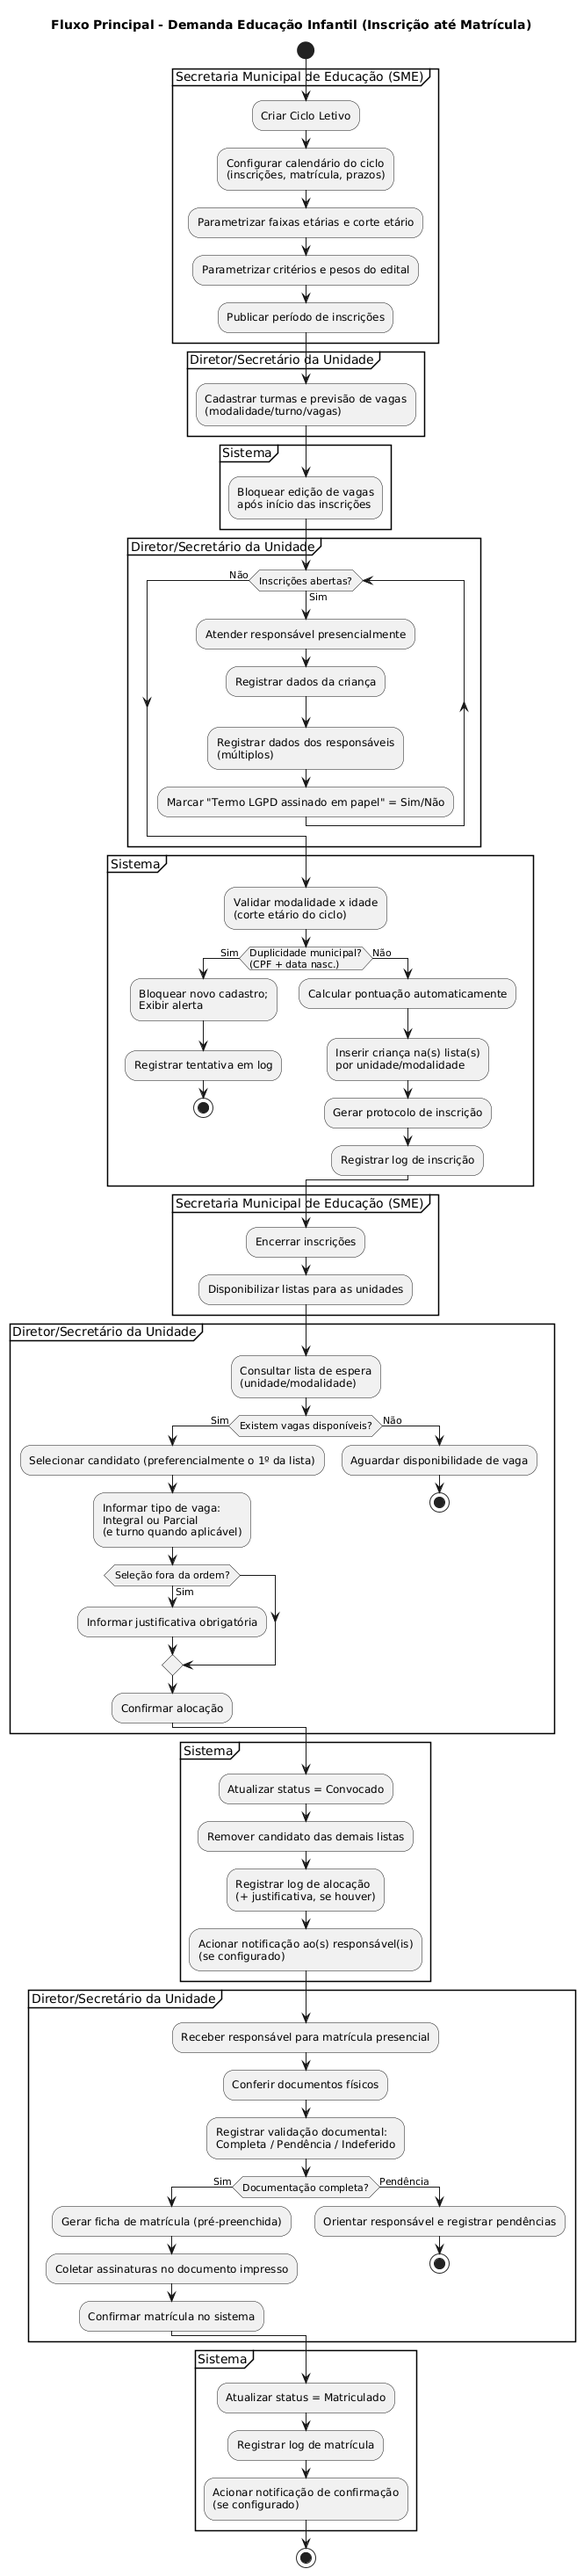
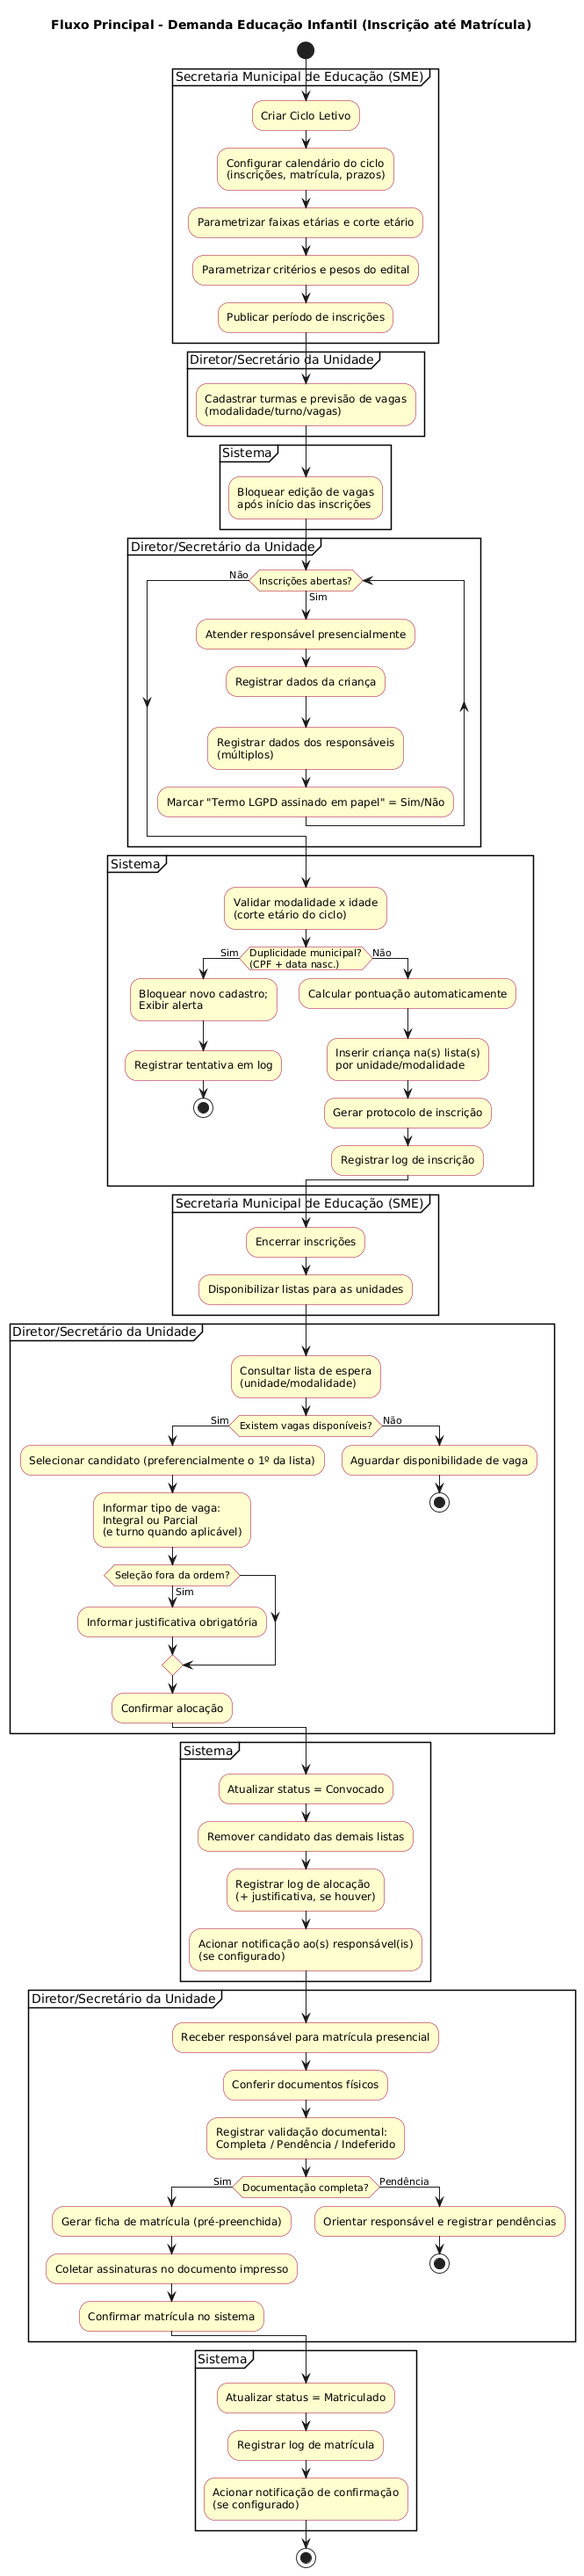
colorindo fundo e borda das atividades

Changed region(s): [[0.0301, 0.031, 0.9624, 0.9935]]

diff --git a/docs/assets/atividade_fluxo_4.md b/docs/assets/atividade_fluxo_4.md
@@ -1,10 +1,16 @@
 @startuml
+
+skinparam activity {
+  BackgroundColor #FEFECE
+  BorderColor #A80036
+}
+
 title Subfluxo - Matrícula Presencial (Validação Documental)
 
 start
 
-partition "Diretor/Secretário da Unidade" {
-  :Abrir inscrição com status = Convocado #FFF8DC;
+partition "Diretor/Secretário da Unidade"{
+  :Abrir inscrição com status = Convocado;
   :Receber responsável na unidade;
   :Conferir documentos físicos;
   :Registrar resultado da conferência\n(Completa/Pendência/Indeferido);

diff --git a/docs/assets/atividade_fluxo_1.md b/docs/assets/atividade_fluxo_1.md
@@ -1,4 +1,10 @@
 @startuml
+
+skinparam activity {
+  BackgroundColor #FEFECE
+  BorderColor #A80036
+}
+
 title Fluxo Principal - Demanda Educação Infantil (Inscrição até Matrícula)
 
 start

diff --git a/docs/assets/atividade_fluxo_3.md b/docs/assets/atividade_fluxo_3.md
@@ -1,4 +1,10 @@
 @startuml
+
+skinparam activity {
+  BackgroundColor #FEFECE
+  BorderColor #A80036
+}
+
 title Subfluxo - Alocação de Vaga (com Integral/Parcial)
 
 start

diff --git a/docs/assets/atividade_fluxo_2.md b/docs/assets/atividade_fluxo_2.md
@@ -1,4 +1,9 @@
 @startuml
+skinparam activity {
+  BackgroundColor #FEFECE
+  BorderColor #A80036
+}
+
 title Subfluxo - Inscrição Presencial (Unidade)
 
 start
